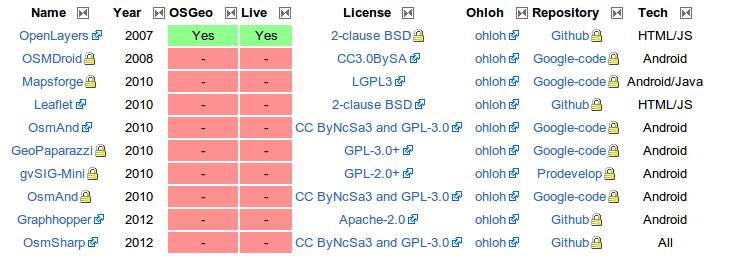
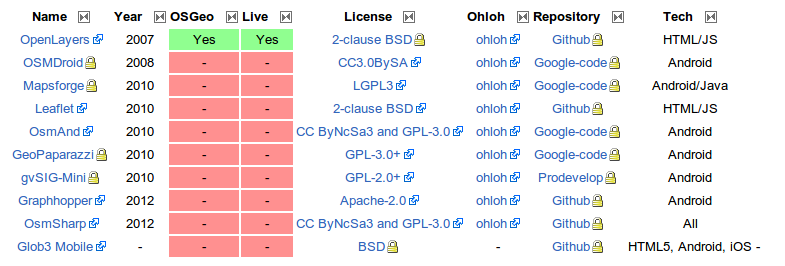
Add mention to Glob3 Mobile in movilidad.index.rst. Update table image

diff --git a/source/movilidad/index.rst b/source/movilidad/index.rst
@@ -10,7 +10,7 @@ Autores
 Introducción
 ------------
 
-Incluiremos en la categoría de dispositivos móviles los paquetes de software que se pueden utilizar desde *smartphones* y tabletas.  
+Incluiremos en la categoría de dispositivos móviles los paquetes de software que se pueden utilizar desde dispositivos móviles del tipo de los *smartphones* y tabletas.  
 
 La posibilidad de disponer de GPS en los dispositivos móviles, ha convertido a estos aparatos en herramientas muy valiosas para su utilización como navegadores, plataformas de geomarketing, sensores móviles, y en general como plataforma para todo tipo de aplicaciones en los que la geolocalización sea un componente de valor.
 
@@ -32,7 +32,7 @@ La utilización de Java permite también que librerías inicialmente pensadas pa
    :align: center
    :alt: Información general sobre las tecnologías
 
-   Información general sobre tecnologías
+.. important:: Se puede consultar la versión más reciente, así como los enlaces asociados y anotaciones en la sección de `Moviles <http://wiki.osgeo.org/wiki/Panorama_SIG_Libre_2014/Moviles>`_ del wiki de OSGeo.
 
 
 Las principales librerías y programas disponibles en código abierto son:
@@ -69,6 +69,10 @@ OsmSharp_:
 
 Es una herramienta para trabajar con cartografía de OpenStreetMap. Permite la visualización de información vectorial y el cálculo de rutas. Se puede utilizar en Android, iOS y WindowsPhone, así como en Linux, Windows y OSX.
 
+Glob3Mobile_:
+
+En el campo de la visualización 3d destacamos aquí el proyecto Glob3 Mobile, desarrollado por IGO SOFTWARE y ULPGC con el respaldo de organismos públicos y privados españoles. Se trata de un componente para desarrollar aplicaciones 2D, 2.5D y 3D para dispositivos móviles, tanto Android como iPhone y en general en cualquier entorno HTML5.
+
 Puntos calientes
 ----------------
 Actualmente hay dos sistemas operativos para móviles que acaparan la mayoría de los dispositivos utilizados. Se trata del sistema iOS de Apple y el sistema Android de Google. El más '*abierto*' es el sistema operativo Android, si bien ninguno de los dos es realmente abierto.
@@ -76,6 +80,9 @@ Actualmente hay dos sistemas operativos para móviles que acaparan la mayoría d
 Es importante destacar que, cuando el dispositivo móvil utiliza un navegador web para visualizar información en la red, la distinción entre dispositivos móviles y ordenadores de escritorio se hace más difusa, pues las mismas herramientas y librerías nos sirven para visualizar información en un dispositivo móvil u otro tipo de elemento de computación. Es el caso de las librerías OpenLayers o LeafLet, que nos permiten, con pequeñas diferencias, acceder a la visualización de información cartográfica desde cualquier navegador, sea este basado en móviles o en ordenadores de escritorio.
 
 Otro frente actual es el de los sistemas operativos que tratan de ser funcionales tanto en dispositivos móviles como en ordenadores de escritorio. En esta categoría se incuyen el sistema operativo Ubuntu móvil o el Windows 8 que permiten ser ejecutados en todo tipo de ordenadores. Es previsible que el aumento de potencia de los dispositivos móviles unido a la conveniencia de compatibilidad entre dispositivos, permita en un futuro cercano que la distinción entre sistemas operativos para dispositivos móviles y para ordenadores de escritorio se haga cada vez más difusa.
+
+Es previsible que la visualización 3D vaya ganando protagonismo en los próximos años.
+
 
 Curva de aprendizaje y conocimientos previos
 --------------------------------------------
@@ -141,6 +148,11 @@ Documentación
      - `OsmSharp documentation <http://www.osmsharp.com/wiki/documentation>`_ 
      - ...
 
+   * - **Glob3 Mobile**
+     - `Glob3 Home <http://www.glob3mobile.com/>`_
+     - `Glob3 documentation <https://github.com/glob3mobile/g3m>`_ 
+     - `About <http://www.glob3mobile.com/coding/>`_
+
    
 
 .. Enlaces
@@ -163,3 +175,6 @@ Documentación
 .. _MapsForge: https://code.google.com/p/mapsforge/
 
 .. _Osmosis: http://wiki.openstreetmap.org/wiki/Osmosis
+
+.. _Glob3Mobile: http://www.glob3mobile.com/
+
